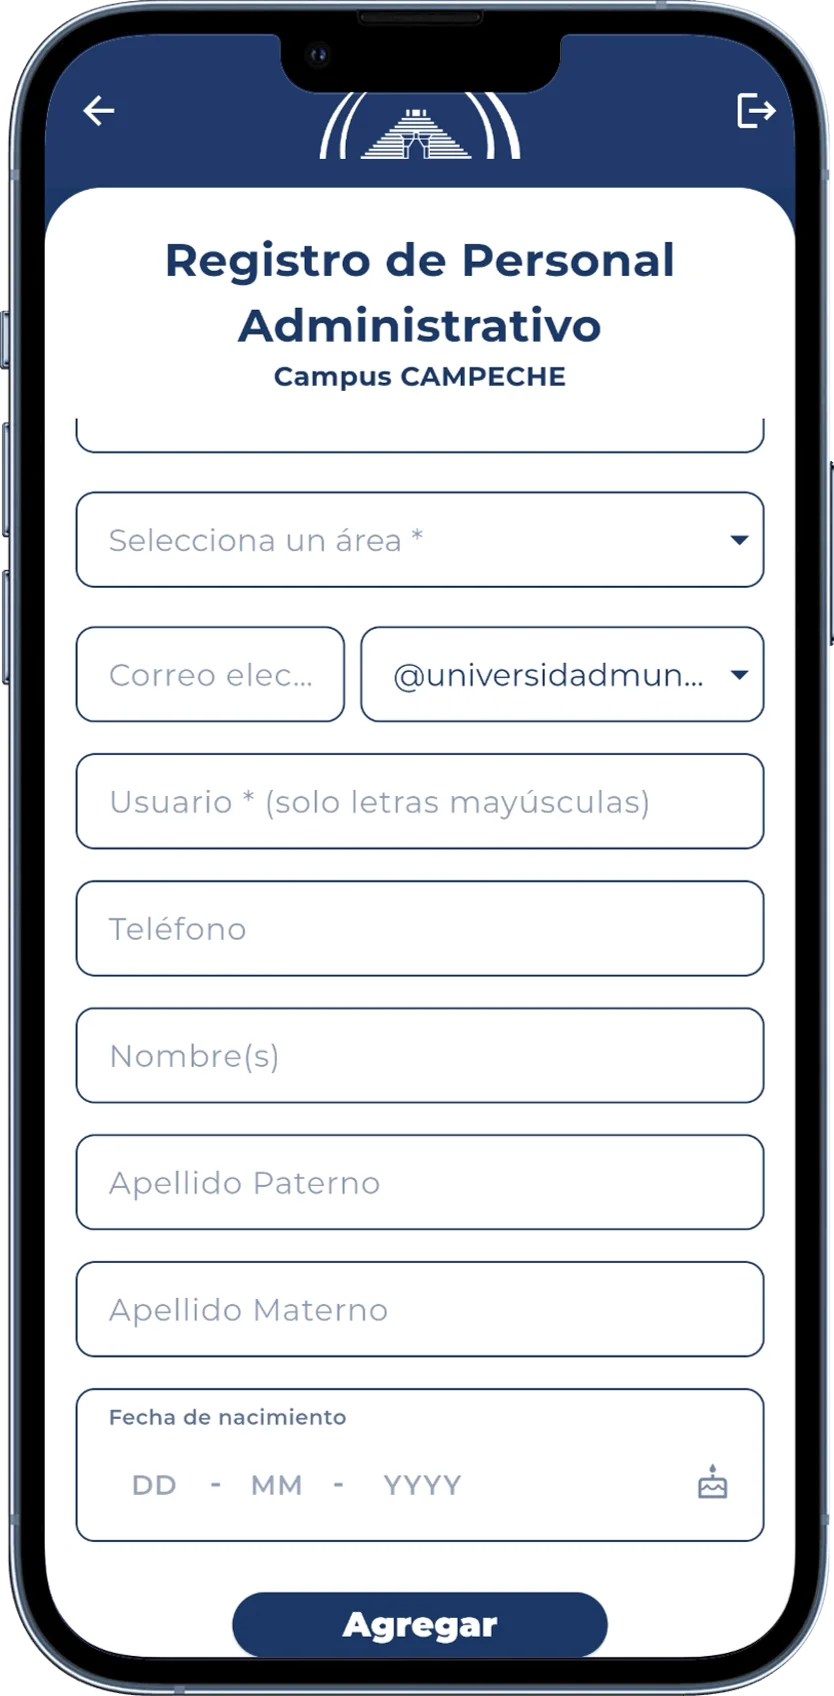
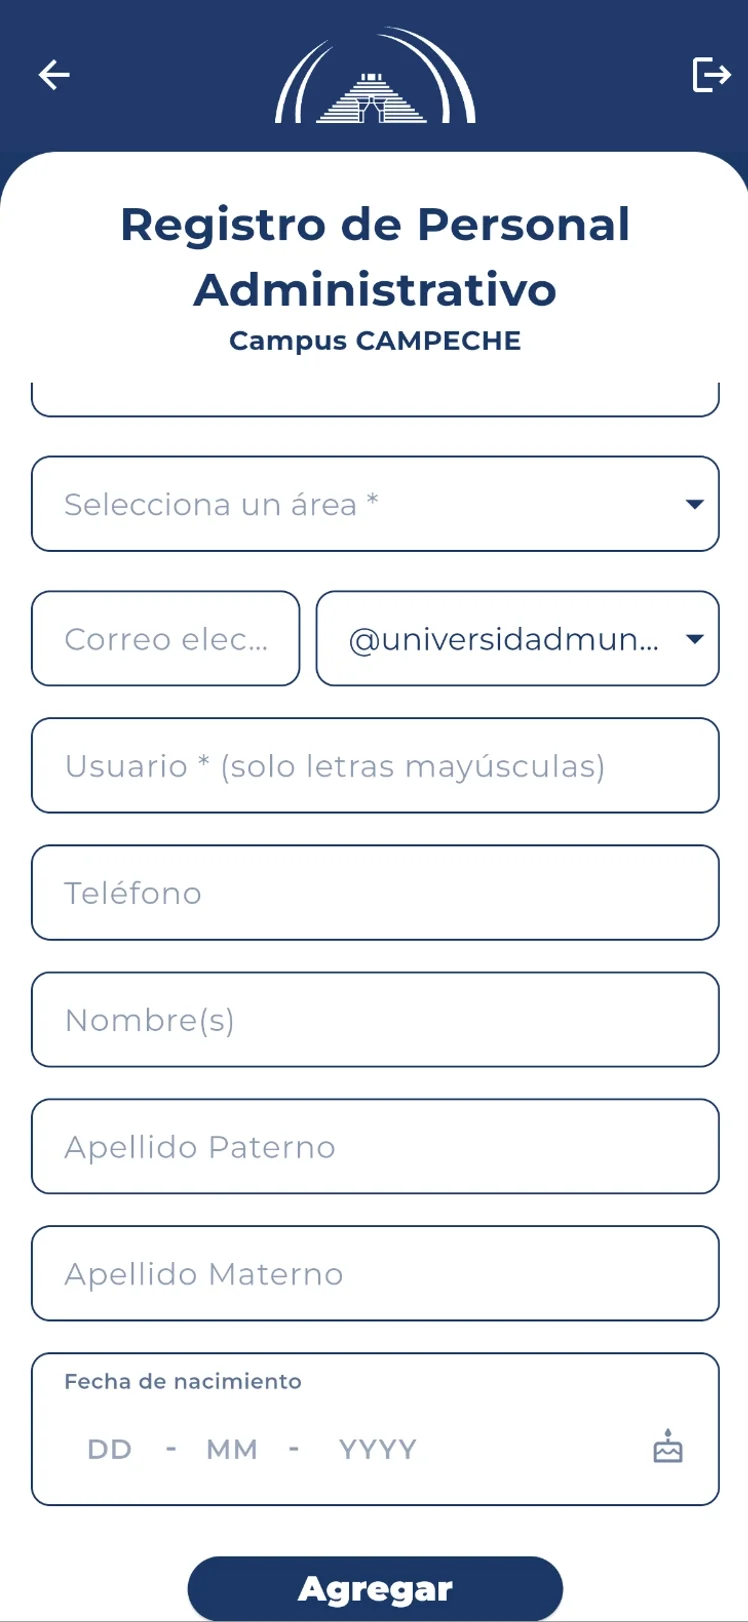
Cambio de imagenes

Changed region(s): [[0.0, 0.0, 1.0, 1.0]]

diff --git a/docs/Administrativos/Gestion_Docentes/Formatos_Docente.md b/docs/Administrativos/Gestion_Docentes/Formatos_Docente.md
@@ -10,8 +10,8 @@ import IphoneWrapper from '@site/src/components/IphoneWrapper';
 export const RegistroSlider = () => {
   const [index, setIndex] = useState(0);
   const imagenes = [
-    '/img/DocentesPanel/FormatosDoc.jpg', 
-    '/img/DocentesPanel/AgregarFor.jpg'
+    '/img/DocentesPanel/FormatosDoc.webp', 
+    '/img/DocentesPanel/AgregarFor.webp'
   ];
 
   useEffect(() => {
@@ -44,19 +44,20 @@ export const RegistroSlider = () => {
   {/* Columna de Texto */}
   <div style={{ flex: '1 1 400px' }}> 
 
-    Este módulo actúa como el repositorio centralizado de toda la documentación esencial del profesorado. Su objetivo es estandarizar la recopilación, el almacenamiento y la consulta de la información necesaria para el ciclo de vida laboral del docente.
+    Este módulo actúa como el **repositorio centralizado de toda la documentación esencial del profesorado**, garantizando un control integral, seguro y estructurado de los expedientes digitales. Su objetivo principal es **estandarizar la recopilación, el almacenamiento y la consulta continua** de la información indispensable a lo largo de todo el ciclo de vida laboral e institucional del docente.
 
-    ### Catálogo de Documentación
-    El sistema gestiona diversos formatos que permiten obtener una visión integral del perfil y la labor docente:
+### Catálogo de Documentación
+El sistema gestiona diversos formatos que permiten obtener una visión detallada y actualizada del perfil, la capacidad pedagógica y la labor docente:
 
-    * **Curriculum Vitae (CV):** Registro detallado de la trayectoria profesional y formación académica.
-    * **Planes Programáticos:** Documentos que detallan los contenidos, objetivos y metodologías de enseñanza.
-    * **Reportes de Desempeño:** Historial de evaluaciones y métricas sobre la labor del docente en el aula.
+* **Curriculum Vitae (CV):** Registro detallado y estructurado de la trayectoria profesional, formación académica, certificaciones y especializaciones del docente.
+* **Planes Programáticos:** Documentos académicos que detallan los contenidos temáticos, objetivos de aprendizaje, criterios de evaluación y metodologías de enseñanza aplicadas en cada asignatura.
+* **Reportes de Desempeño:** Historial de evaluaciones docentes, métricas de cumplimiento y retroalimentación sobre la labor pedagógica en el aula para asegurar la calidad académica.
 
-    > **Propósito del Módulo:** La digitalización de estos formatos permite optimizar procesos críticos:
-    > * **Agilidad en la Contratación:** Centraliza la información para validación rápida de perfiles.
-    > * **Inducción Efectiva:** Facilita el acceso a políticas institucionales.
-    > * **Eficiencia en la Búsqueda:** Elimina archivos físicos dispersos, creando un proceso digital ordenado.
+> **Propósito del Módulo:** La digitalización y centralización de estos formatos optimiza significativamente los procesos administrativos y académicos:
+> * **Agilidad en la Contratación:** Centraliza la información del expediente para la validación rápida, eficiente y oportuna de los perfiles solicitados.
+> * **Inducción Efectiva:** Facilita el acceso directo del personal de nuevo ingreso a las políticas, guías y lineamientos institucionales.
+> * **Eficiencia en la Búsqueda:** Elimina la dependencia de archivos físicos dispersos, consolidando un entorno de consulta digital rápido, accesible y ordenado.
+
   </div>
 
   {/* Columna del Slider - Estática y Centrada en móvil */}

diff --git a/docs/Administrativos/Gestion_Docentes/Agregar_Docente.md b/docs/Administrativos/Gestion_Docentes/Agregar_Docente.md
@@ -10,8 +10,8 @@ import IphoneWrapper from '@site/src/components/IphoneWrapper';
 export const RegistroSlider = () => {
   const [index, setIndex] = useState(0);
   const imagenes = [
-    '/img/DocentesPanel/AgregarDoc1.png', 
-    '/img/DocentesPanel/AgregarDoc2.png'
+    '/img/DocentesPanel/AgregarDoc1.webp', 
+    '/img/DocentesPanel/AgregarDoc2.webp'
   ];
 
   useEffect(() => {

diff --git a/docs/Administrativos/Gestion_Docentes/Control_Asistencia.md b/docs/Administrativos/Gestion_Docentes/Control_Asistencia.md
@@ -11,7 +11,7 @@ import IphoneWrapper from '@site/src/components/IphoneWrapper';
 export const RegistroSlider = () => {
   const [index, setIndex] = useState(0);
   const imagenes = [
-    '/img/DocentesPanel/AsistenciaDoc.jpg', 
+    '/img/DocentesPanel/AsistenciaDoc.webp', 
     '/img/DocentesPanel/ConfDiHa.jpg'
   ];
 

diff --git a/docs/Administrativos/Grados_y_Areas_Escolares/Añadir_Editar.md b/docs/Administrativos/Grados_y_Areas_Escolares/Añadir_Editar.md
@@ -10,7 +10,7 @@ import IphoneWrapper from '@site/src/components/IphoneWrapper';
 export const RegistroSlider = () => {
   const [index, setIndex] = useState(0);
   const imagenes = [
-    '/img/GradoEscolar/Grado.jpg',
+    '/img/GradoEscolar/Grado.webp',
   ];
 
   useEffect(() => {

diff --git a/docs/Administrativos/Gestion_Docentes/Lista Docentes.md b/docs/Administrativos/Gestion_Docentes/Lista Docentes.md
@@ -7,7 +7,7 @@ sidebar_position: 5
 import DualLayout from '@site/src/components/DualLayout';
 
 <DualLayout 
-  imageSrc="/img/DocentesPanel/ListaDoc.jpg" 
+  imageSrc="/img/DocentesPanel/ListaDoc.webp" 
   altText="Lista de Docentes" 
   stickyImage={true}
 >
